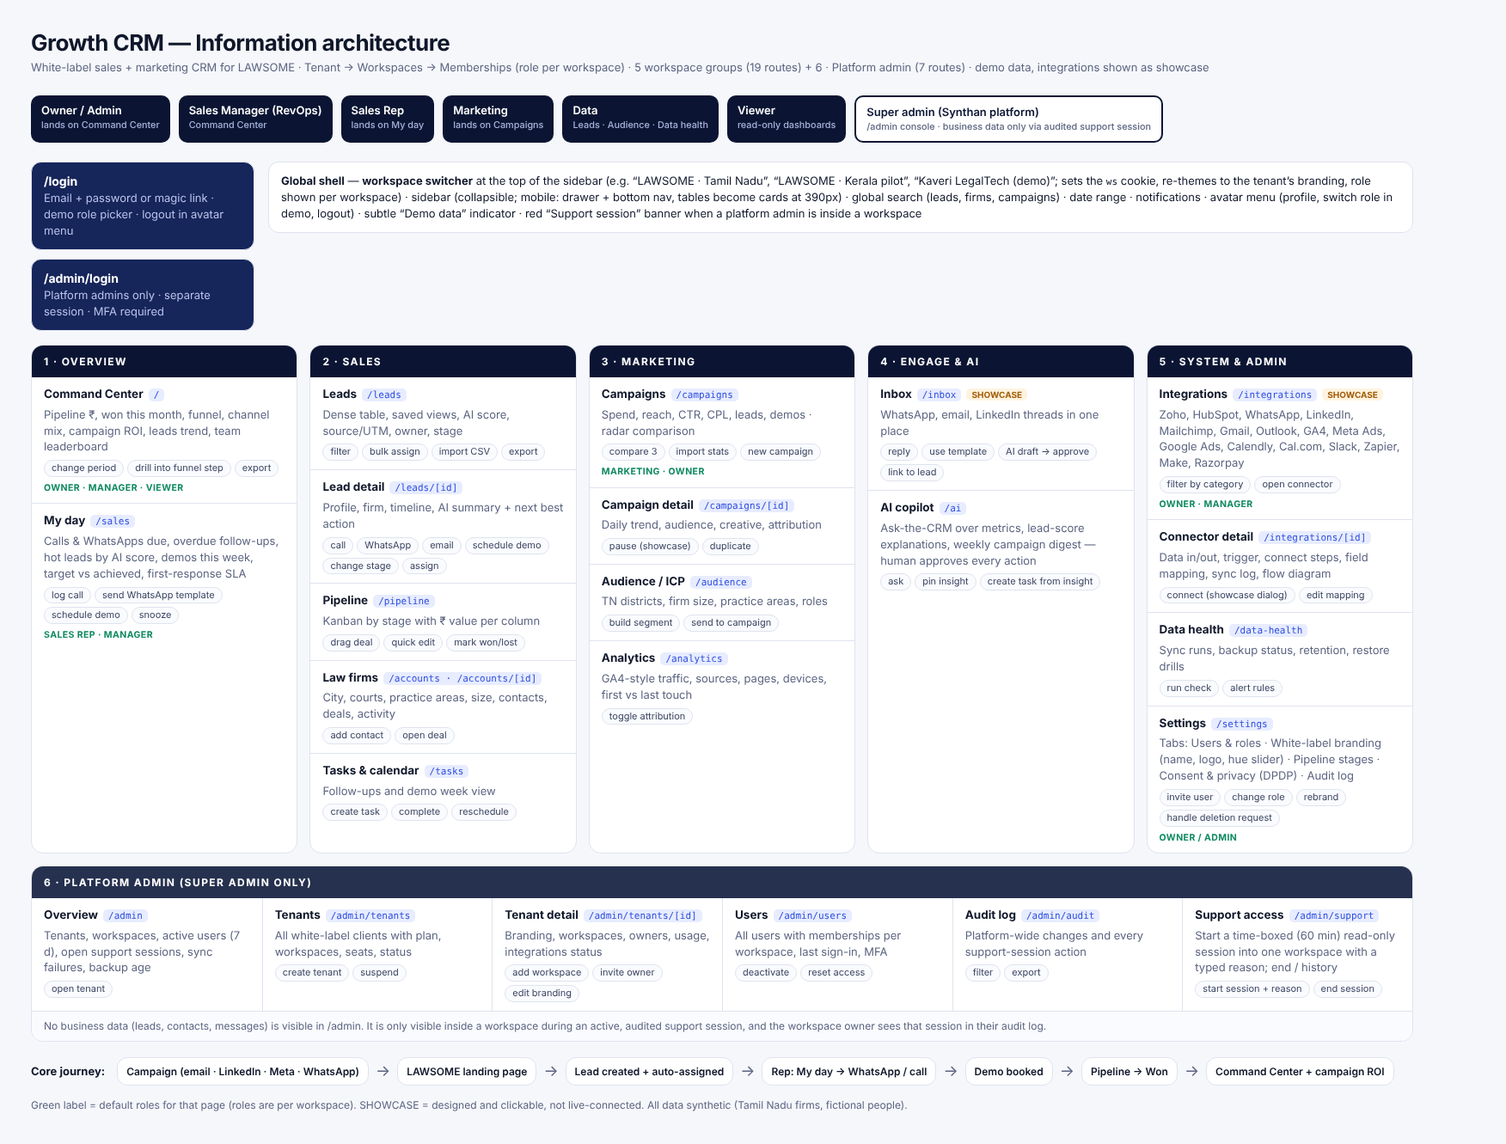
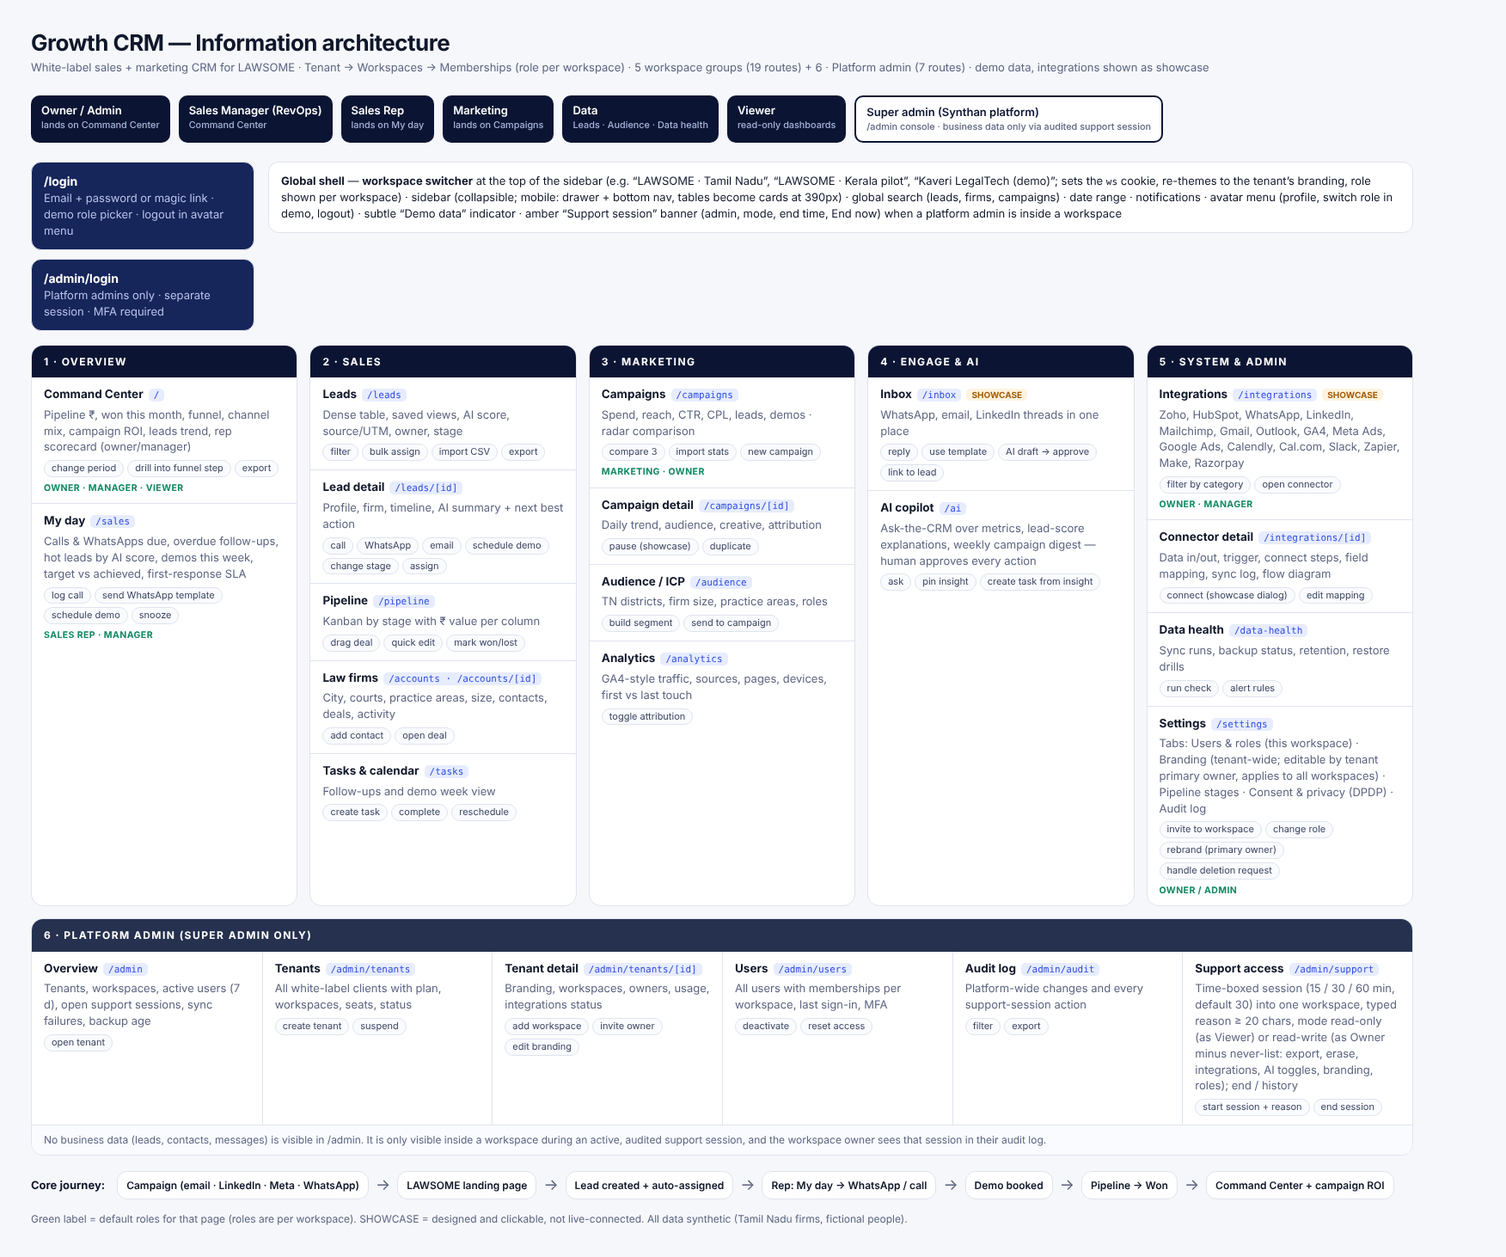
Growth CRM spec: support-session never-list, tenant branding owner, admin identity; IA synced
has_member_role (real membership only) guards erase, export, integrations,
AI toggles, branding, roles and privacy requests in every support
session; Super admin column clarified (S as Viewer / S-rw); branding is
tenant-wide and edited by the tenant primary owner; platform admin
accounts are separate identities; superseded tenant-only authorisation
text replaced. IA: amber banner, support modes, tenant branding, rep
scorecard; PNG re-rendered.

Claude-Session: https://claude.ai/code/session_01BYfUVx6rbJVrxC3ZVcR8mK

Changed region(s): [[0.0, 0.0308, 0.9555, 0.9857], [0.8014, 0.9241, 0.9247, 0.9549], [0.4932, 0.5853, 0.524, 0.6161]]

diff --git a/synthenei/03-projects/growth-crm/ia/ia.html b/synthenei/03-projects/growth-crm/ia/ia.html
@@ -36,11 +36,11 @@ h1{font:700 26px/1.1 Inter,system-ui;margin:0 0 4px;letter-spacing:-.02em}.sub{c
 </div>
 <div class="top">
 <div><div class="box entry"><b>/login</b><span>Email + password or magic link · demo role picker · logout in avatar menu</span></div><div class="box entry entry2"><b>/admin/login</b><span>Platform admins only · separate session · MFA required</span></div></div>
-<div class="box"><b>Global shell</b> — <b>workspace switcher</b> at the top of the sidebar (e.g. “LAWSOME · Tamil Nadu”, “LAWSOME · Kerala pilot”, “Kaveri LegalTech (demo)”; sets the <code style="font-size:11px">ws</code> cookie, re-themes to the tenant’s branding, role shown per workspace) · sidebar (collapsible; mobile: drawer + bottom nav, tables become cards at 390px) · global search (leads, firms, campaigns) · date range · notifications · avatar menu (profile, switch role in demo, logout) · subtle “Demo data” indicator · red “Support session” banner when a platform admin is inside a workspace</div>
+<div class="box"><b>Global shell</b> — <b>workspace switcher</b> at the top of the sidebar (e.g. “LAWSOME · Tamil Nadu”, “LAWSOME · Kerala pilot”, “Kaveri LegalTech (demo)”; sets the <code style="font-size:11px">ws</code> cookie, re-themes to the tenant’s branding, role shown per workspace) · sidebar (collapsible; mobile: drawer + bottom nav, tables become cards at 390px) · global search (leads, firms, campaigns) · date range · notifications · avatar menu (profile, switch role in demo, logout) · subtle “Demo data” indicator · amber “Support session” banner (admin, mode, end time, End now) when a platform admin is inside a workspace</div>
 </div>
 <div class="grid">
 <div class="grp"><h2>1 · Overview</h2>
-<div class="pg"><b>Command Center</b><code>/</code><p>Pipeline ₹, won this month, funnel, channel mix, campaign ROI, leads trend, team leaderboard</p><div class="act"><span>change period</span><span>drill into funnel step</span><span>export</span></div><div class="who">OWNER · MANAGER · VIEWER</div></div>
+<div class="pg"><b>Command Center</b><code>/</code><p>Pipeline ₹, won this month, funnel, channel mix, campaign ROI, leads trend, rep scorecard (owner/manager)</p><div class="act"><span>change period</span><span>drill into funnel step</span><span>export</span></div><div class="who">OWNER · MANAGER · VIEWER</div></div>
 <div class="pg"><b>My day</b><code>/sales</code><p>Calls & WhatsApps due, overdue follow-ups, hot leads by AI score, demos this week, target vs achieved, first-response SLA</p><div class="act"><span>log call</span><span>send WhatsApp template</span><span>schedule demo</span><span>snooze</span></div><div class="who">SALES REP · MANAGER</div></div>
 </div>
 <div class="grp"><h2>2 · Sales</h2>
@@ -64,7 +64,7 @@ h1{font:700 26px/1.1 Inter,system-ui;margin:0 0 4px;letter-spacing:-.02em}.sub{c
 <div class="pg"><b>Integrations</b><code>/integrations</code><span class="tag">SHOWCASE</span><p>Zoho, HubSpot, WhatsApp, LinkedIn, Mailchimp, Gmail, Outlook, GA4, Meta Ads, Google Ads, Calendly, Cal.com, Slack, Zapier, Make, Razorpay</p><div class="act"><span>filter by category</span><span>open connector</span></div><div class="who">OWNER · MANAGER</div></div>
 <div class="pg"><b>Connector detail</b><code>/integrations/[id]</code><p>Data in/out, trigger, connect steps, field mapping, sync log, flow diagram</p><div class="act"><span>connect (showcase dialog)</span><span>edit mapping</span></div></div>
 <div class="pg"><b>Data health</b><code>/data-health</code><p>Sync runs, backup status, retention, restore drills</p><div class="act"><span>run check</span><span>alert rules</span></div></div>
-<div class="pg"><b>Settings</b><code>/settings</code><p>Tabs: Users & roles · White-label branding (name, logo, hue slider) · Pipeline stages · Consent & privacy (DPDP) · Audit log</p><div class="act"><span>invite user</span><span>change role</span><span>rebrand</span><span>handle deletion request</span></div><div class="who">OWNER / ADMIN</div></div>
+<div class="pg"><b>Settings</b><code>/settings</code><p>Tabs: Users & roles (this workspace) · Branding (tenant-wide; editable by tenant primary owner, applies to all workspaces) · Pipeline stages · Consent & privacy (DPDP) · Audit log</p><div class="act"><span>invite to workspace</span><span>change role</span><span>rebrand (primary owner)</span><span>handle deletion request</span></div><div class="who">OWNER / ADMIN</div></div>
 </div>
 </div>
 <div class="grp admin"><h2>6 · Platform admin (super admin only)</h2><div class="inner">
@@ -73,7 +73,7 @@ h1{font:700 26px/1.1 Inter,system-ui;margin:0 0 4px;letter-spacing:-.02em}.sub{c
 <div class="pg"><b>Tenant detail</b><code>/admin/tenants/[id]</code><p>Branding, workspaces, owners, usage, integrations status</p><div class="act"><span>add workspace</span><span>invite owner</span><span>edit branding</span></div></div>
 <div class="pg"><b>Users</b><code>/admin/users</code><p>All users with memberships per workspace, last sign-in, MFA</p><div class="act"><span>deactivate</span><span>reset access</span></div></div>
 <div class="pg"><b>Audit log</b><code>/admin/audit</code><p>Platform-wide changes and every support-session action</p><div class="act"><span>filter</span><span>export</span></div></div>
-<div class="pg"><b>Support access</b><code>/admin/support</code><p>Start a time-boxed (60 min) read-only session into one workspace with a typed reason; end / history</p><div class="act"><span>start session + reason</span><span>end session</span></div></div>
+<div class="pg"><b>Support access</b><code>/admin/support</code><p>Time-boxed session (15 / 30 / 60 min, default 30) into one workspace, typed reason ≥ 20 chars, mode read-only (as Viewer) or read-write (as Owner minus never-list: export, erase, integrations, AI toggles, branding, roles); end / history</p><div class="act"><span>start session + reason</span><span>end session</span></div></div>
 </div><div class="note">No business data (leads, contacts, messages) is visible in /admin. It is only visible inside a workspace during an active, audited support session, and the workspace owner sees that session in their audit log.</div></div>
 <div class="flow"><b style="margin-right:6px">Core journey:</b>
 <div class="box">Campaign (email · LinkedIn · Meta · WhatsApp)</div><span class="arrow">→</span>

diff --git a/synthenei/03-projects/growth-crm/03-product-spec.md b/synthenei/03-projects/growth-crm/03-product-spec.md
@@ -328,7 +328,7 @@ Conventions for every page:
 ### `/settings`
 Tabs, each its own URL (`/settings?tab=users`):
 - **Users & roles (this workspace):** table (name, email, role in this workspace, other workspaces count, status Active/Invited/Deactivated, last sign-in); **Invite user** (email, role, territory for reps -> creates an `invitations` row for **this workspace** with 7-day expiry; an existing user gets a membership immediately plus a notification, a new user gets a Supabase invite email); Change role; Deactivate (keeps history, revokes sessions); Resend invite. Owner F; Sales Mgr can invite/manage Sales Rep and Viewer only.
-- **Branding (white-label):** product name, logo upload (SVG/PNG, light and dark), primary colour, accent colour (with live preview and WCAG contrast check: blocks save if text contrast < 4.5:1), favicon, email sender name, support email, custom domain (CNAME instructions; manual verification). Owner only.
+- **Branding (white-label, tenant-wide):** shown as editable only to the tenant's **primary owner** (`tenants.primary_owner_id`, set when the super admin creates the tenant); other workspace owners see a read-only preview. A banner says "Changes apply to all workspaces of LAWSOME (2)". The super admin can edit the same tokens from `/admin/tenants/[id]`. Fields: product name, logo upload (SVG/PNG, light and dark), primary colour, accent colour (with live preview and WCAG contrast check: blocks save if text contrast < 4.5:1), favicon, email sender name, support email, custom domain (CNAME instructions; manual verification). Owner only.
 - **Pipeline:** stages (rename, reorder, probability %, max days), lost reasons, SLA hours and business hours, territories (district -> rep). Owner, Sales Mgr.
 - **Targets:** monthly targets per rep (demos, won value INR). Owner, Sales Mgr.
 - **Consent & privacy:** consent log (search by subject; purpose, action, notice version, captured via); requests queue (withdrawal, erasure: received, due, status; Complete erasure runs the erasure function); retention settings (disqualified leads purged after N months, default 12); privacy notice version. Owner F, Data R.
@@ -627,11 +627,13 @@ flowchart LR
   - `is_platform_admin()` -> row in `platform_admins` with `is_active` **and** the JWT `aal = 'aal2'` (MFA).
   - `has_active_support_session(ws uuid)` -> `is_platform_admin()` and a `support_sessions` row for that workspace with `ended_at is null and now() < expires_at`.
   - Typical policy: `using ((select public.is_member(workspace_id)) and (select public.has_ws_role(workspace_id, 'owner','sales_manager')) ...)`. Platform tables (`tenants` list, `workspaces` metadata, `platform_admins`, `support_sessions`) are readable by `is_platform_admin()`; business tables are **never** opened by `is_platform_admin()` alone, only via `has_active_support_session`.
+  - **Never-list (support sessions can't do these, in any mode):** delete or erase a lead (`erase_lead`, `leads_delete`), CSV export, connect/disconnect an integration or edit its secrets, toggle AI features, change branding, invite users or change roles/deactivate members, process privacy requests. Enforcement: these policies and RPCs check `has_member_role(ws, 'owner', ...)`, which reads **real `memberships` only** and ignores support sessions, instead of `has_ws_role()`. In short: `has_ws_role` = membership role **or** support-session role; `has_member_role` = membership role only. The UI hides these actions while the banner is shown, but the database rule is the guarantee.
   - Every write while a support session is active is stamped with `support_session_id` in `audit_log` (from a session GUC set by the server).
 - **Active workspace:** the `ws` cookie only selects which workspace the UI shows. It is never trusted by the database: every query filters `workspace_id = <cookie value>` **and** RLS checks membership, so a forged cookie returns nothing.
 - **Branding:** the layout resolves the active workspace -> tenant -> branding tokens and injects CSS variables; switching workspace across tenants re-themes the shell. Custom domains map to a tenant; on a custom domain, the switcher only lists that tenant's workspaces.
 - **Schema status:** `apps/growth-crm/supabase/schema.sql` is the earlier single-level (tenant-only) reference design. The live source of truth is `apps/growth-crm/supabase/migrations/` (backend agent), which carries this workspace model.
-- **Authorisation:** (earlier tenant-only design, superseded by the workspace helpers above) helper functions `public.current_tenant_id()`, `public.current_app_role()` and `public.has_role(variadic app_role[])` read `profiles` as `security definer` with `search_path = ''`, so policies do not recurse (they only ever return the caller's own tenant/role). The landing page writes through `public.submit_lead(...)` and `public.track_event(...)` (SECURITY DEFINER, validated, throttled, granted to `anon`), so no service-role key is needed on the landing site. Policies are per table and per command (section 10). Aggregate views (`v_funnel_daily`, `v_campaign_perf`, `v_campaign_reach_profile`, `v_pipeline_summary`, `v_rep_scorecard`, `v_leads_masked`, `v_backup_latest`, `v_sync_freshness`) deliberately run as the view owner: each one filters by `public.current_tenant_id()` **and** a role predicate inside the view, and returns no personal data, so Viewers can read dashboards without row access to `leads`. Sales Reps get no rows from team-level views (`v_funnel_daily`, `v_pipeline_summary`, `v_campaign_perf`) and only their own row from `v_rep_scorecard`, matching section 4. The Supabase advisor will flag these as `security_definer_view`; this is accepted and documented, so don't switch them to `security_invoker`. Policies call helpers as `(select fn())` so they are evaluated once per statement. Cross-row references in inserts (activity -> lead, deal -> account, consent -> lead) must point at rows the caller can see. Audit rows store `[pii]` placeholders for personal columns, and `public.erase_lead()` (Owner) completes DPDP erasure.
+- **Authorisation:** every policy is per table and per command (section 10). It calls the workspace helpers above as `(select fn())`, so they are evaluated once per statement. Cross-row references in inserts (activity -> lead, deal -> account, consent -> lead) must point at rows the caller can see. Audit rows store `[pii]` placeholders for personal columns. `erase_lead()` completes DPDP erasure. The landing page writes only through `submit_lead()` / `track_event()` (SECURITY DEFINER, validated, throttled, granted to `anon`).
+- **Aggregate views** (funnel, campaign performance, reach profile, pipeline summary, rep scorecard, masked leads, backup, sync freshness) deliberately run as the view owner. Each filters by the active workspace's membership and a role predicate inside the view and returns no personal data. That is why Viewers can read dashboards without row access, while Sales Reps get no team-level rows. The Supabase advisor's `security_definer_view` warning is accepted and documented.
 - **Audit log:** a generic trigger writes `audit_log` (tenant, actor, action, table, row id, changed columns with old/new values) on insert/update/delete of leads, contacts, accounts, deals, profiles, tenants, integrations, pipeline_stages, consent_log. Table is append-only (no update/delete policy; revoke update/delete). Integration writes record `actor_label = 'integration:<provider>'`.
 - **Backups:** Supabase daily backups (7-day retention on Free/Pro, no Storage objects or Edge Functions included; PITR is a paid add-on) ([Supabase backups [O]](https://supabase.com/docs/guides/platform/backups.md)). We found no official API to read backup status, so: (1) nightly `pg_dump` (`supabase db dump` for schema + data) at 02:00 IST from Krishna's server to an offsite bucket with 30-day retention, encrypted at rest; (2) the job writes a `backup_checks` row (`check_kind='logical_dump'`, size, row counts per table, status) - this is the **heartbeat**; (3) a 09:00 IST cron checks `backup_alert_rules` (e.g. "no successful logical_dump in 26 h", "dump size dropped > 20% vs 7-day median") and posts to Slack/email; (4) quarterly restore drill into a scratch database, logged as `restore_drill`. `/data-health` reads these rows.
 - **Secrets:** provider tokens live in Supabase Vault / Edge Function secrets or the server's env file (`chmod 600`), referenced from `integrations.config_ref` by name only. Per-tenant webhook signing secrets are generated server-side and shown once. `.env.example` lists names, never values. No secrets in the repo, in logs, or in `sync_runs.error`.
@@ -676,26 +678,26 @@ Roles are **per workspace** (`memberships.role`), not per user. A person can be 
 | `viewer` | Viewer | Leadership, investors | Aggregated dashboards and masked lists via `v_leads_masked` (initials, firm, district, status, score). Never phone, email, timeline, inbox or exports. RLS gives Viewer no rows from `leads`, `contacts`, `activities`, `messages`. |
 | `platform_admin` (not a workspace role) | Super admin | Krishna (Synthan platform operator) | `/admin` console: tenants, workspaces, users, platform audit, support access. No business data unless a support session is active; MFA required |
 
-### 10.2 Page access per workspace role (F full, E own/assigned, R read, M read masked/aggregates, S only inside an active audited support session, — none)
+### 10.2 Page access per workspace role (F full, E own/assigned, R read, M read masked/aggregates, S = only inside an active audited support session: in `read_only` the admin acts as Viewer (so pages Viewer can't open stay closed), in `read_write` as Owner minus the never-list in section 8; S-rw = only in a `read_write` session; — none)
 | Page | Owner | Sales Mgr | Sales Rep | Marketing | Data | Viewer | Super admin |
 |---|---|---|---|---|---|---|---|
 | `/` Command Center | F | R | -> `/sales` | -> `/campaigns` | -> `/data-health` | M | S |
-| `/sales` | R | R (any rep) | E | — | — | — | S |
+| `/sales` | R | R (any rep) | E | — | — | — | S-rw |
 | `/leads`, `/leads/[id]` | F | F | E | R (+import, source fields) | R (+import, merge, enrich) | M | S |
 | `/pipeline` | F | F | E | R | R | M | S |
 | `/accounts`, `/accounts/[id]` | F | F | R (+E own) | R | F (no delete) | M | S |
 | `/campaigns`, `/campaigns/[id]` | F | R | — | F | R | M | S |
 | `/audience` | F | R | — | F | F | M | S |
 | `/analytics` | F | R | — | F | R | M | S |
-| `/inbox` | F | F | E | R | — | — | S |
-| `/tasks` | F | F (team) | E | E | E | — | S |
-| `/ai` | F | E (weights, logs) | R | R | R | — | S |
-| `/integrations`, `/integrations/[id]` | F | R | — | R | E (mapping, CSV) | — | S |
-| `/data-health` | F | R | — | — | F (no alert edit) | — | S |
-| `/settings` users | F | E (Rep/Viewer only) | — | — | — | — | S |
-| `/settings` branding | F | — | — | — | — | — | via `/admin/tenants/[id]` |
-| `/settings` pipeline, targets | F | F | — | — | — | — | S |
-| `/settings` consent & privacy | F | R | — | — | R | — | S |
+| `/inbox` | F | F | E | R | — | — | S-rw |
+| `/tasks` | F | F (team) | E | E | E | — | S-rw |
+| `/ai` | F | E (weights, logs) | R | R | R | — | S-rw |
+| `/integrations`, `/integrations/[id]` | F | R | — | R | E (mapping, CSV) | — | S-rw |
+| `/data-health` | F | R | — | — | F (no alert edit) | — | S-rw |
+| `/settings` users | F | E (Rep/Viewer only) | — | — | — | — | S-rw |
+| `/settings` branding (tenant-wide) | F (tenant primary owner only; others R) | — | — | — | — | — | via `/admin/tenants/[id]` |
+| `/settings` pipeline, targets | F | F | — | — | — | — | S-rw |
+| `/settings` consent & privacy | F | R | — | — | R | — | S-rw |
 | `/settings` audit log | R | R | — | — | — | — | via `/admin/audit` |
 | `/admin/*` console | — | — | — | — | — | — | F |
 | Profile | E | E | E | E | E | E | — |
@@ -740,9 +742,9 @@ Enforcement: UI hides what a role cannot do (no disabled-button clutter), **and*
 - **Workspace switch:** sets the `ws` cookie and `profiles.last_workspace_id`, re-themes, and redirects to the role home for the new workspace. Session tokens are unchanged; RLS checks membership per query.
 
 ### 10.5 Platform admin flows
-- **Login:** `/admin/login` with password + TOTP (AAL2). `is_platform_admin()` requires `aal2` in the JWT. Idle timeout is 30 minutes. A platform admin who is also a workspace member uses `/login` for that work, so their member identity and admin identity never mix in one view.
+- **Login:** `/admin/login` with password + TOTP (AAL2). `is_platform_admin()` requires `aal2` in the JWT. Idle timeout is 30 minutes. **Platform admin accounts are separate identities** (e.g. a dedicated `platform+krishna@` address). A trigger rejects a `memberships` row for any `platform_admins` user and vice versa, because the same Supabase session cookie and AAL2 token would otherwise be valid on both `/login` and `/admin`. Admin RPCs check `is_platform_admin()` and are called only from `/admin` routes; workspace pages never call them.
 - **Logout:** ends any open support session (`ended_at = now()`), signs out, returns to `/admin/login`.
-- **Support session:** start from `/admin/support` or a tenant page with a typed reason (min 20 chars), mode and duration (max 60 min). While active, `is_member()`/`has_ws_role()` treat the admin as `viewer` (read_only) or `owner` (read_write) in that one workspace. Every request is logged with `support_session_id`. An amber banner shows in the workspace. The owner is notified and sees the session in their audit log. Export, delete/erase, AI toggles and integration connect are never allowed in a support session.
+- **Support session:** start from `/admin/support` or a tenant page with a typed reason (min 20 chars), mode and duration (max 60 min). While active, `is_member()`/`has_ws_role()` treat the admin as `viewer` (read_only) or `owner` (read_write) in that one workspace. Every request is logged with `support_session_id`. An amber banner shows in the workspace. The owner is notified and sees the session in their audit log. Actions on the never-list in section 8 (delete/erase, export, integrations, AI toggles, branding, invites/roles, privacy requests) are blocked in every support session by `has_member_role()`.
 - **No silent access:** there is no policy that lets `is_platform_admin()` alone read business tables.
 
 ## 11. Design direction (for alignment with the UI build)
@@ -801,7 +803,7 @@ See `04-open-questions/questions.md`: client meeting outcomes (current tools, te
 | Platform role (not a membership) | `platform_admin` Super admin (row in `platform_admins`; MFA/AAL2) |
 | Support session | `mode`: `read_only` · `read_write`; `reason` min 20 chars; duration 15 / 30 / 60 min |
 | Cookie | `ws` = active workspace id (UI selector only; RLS re-checks membership) |
-| RLS helpers | `is_member(ws)` · `has_ws_role(ws, roles...)` · `is_platform_admin()` · `has_active_support_session(ws)` |
+| RLS helpers | `is_member(ws)` · `has_ws_role(ws, roles...)` (membership or support role) · `has_member_role(ws, roles...)` (real membership only; guards the never-list) · `is_platform_admin()` · `has_active_support_session(ws)` |
 | Personas (section 2) | `firm_owner` Firm owner / managing partner (LAWSOME owner) · `practice_head` Senior advocate / practice head (contact only, no login) · `sales_rep` Client salesperson · `marketing_lead` Marketing lead · `revops` Sales Manager / RevOps · `data_steward` Data · `viewer` Viewer · `platform_operator` Synthan super admin |
 | Lead status (`lead_status`) | `new` · `contacted` · `qualified` · `nurturing` · `disqualified` · `converted` (demo progress lives on deals, not leads) |
 | Deal stages (`pipeline_stages.key`, default, probability) | `discovery` 10 · `demo_scheduled` 25 · `demo_done` 40 · `proposal` 60 · `negotiation` 80 · `won` 100 · `lost` 0 |
